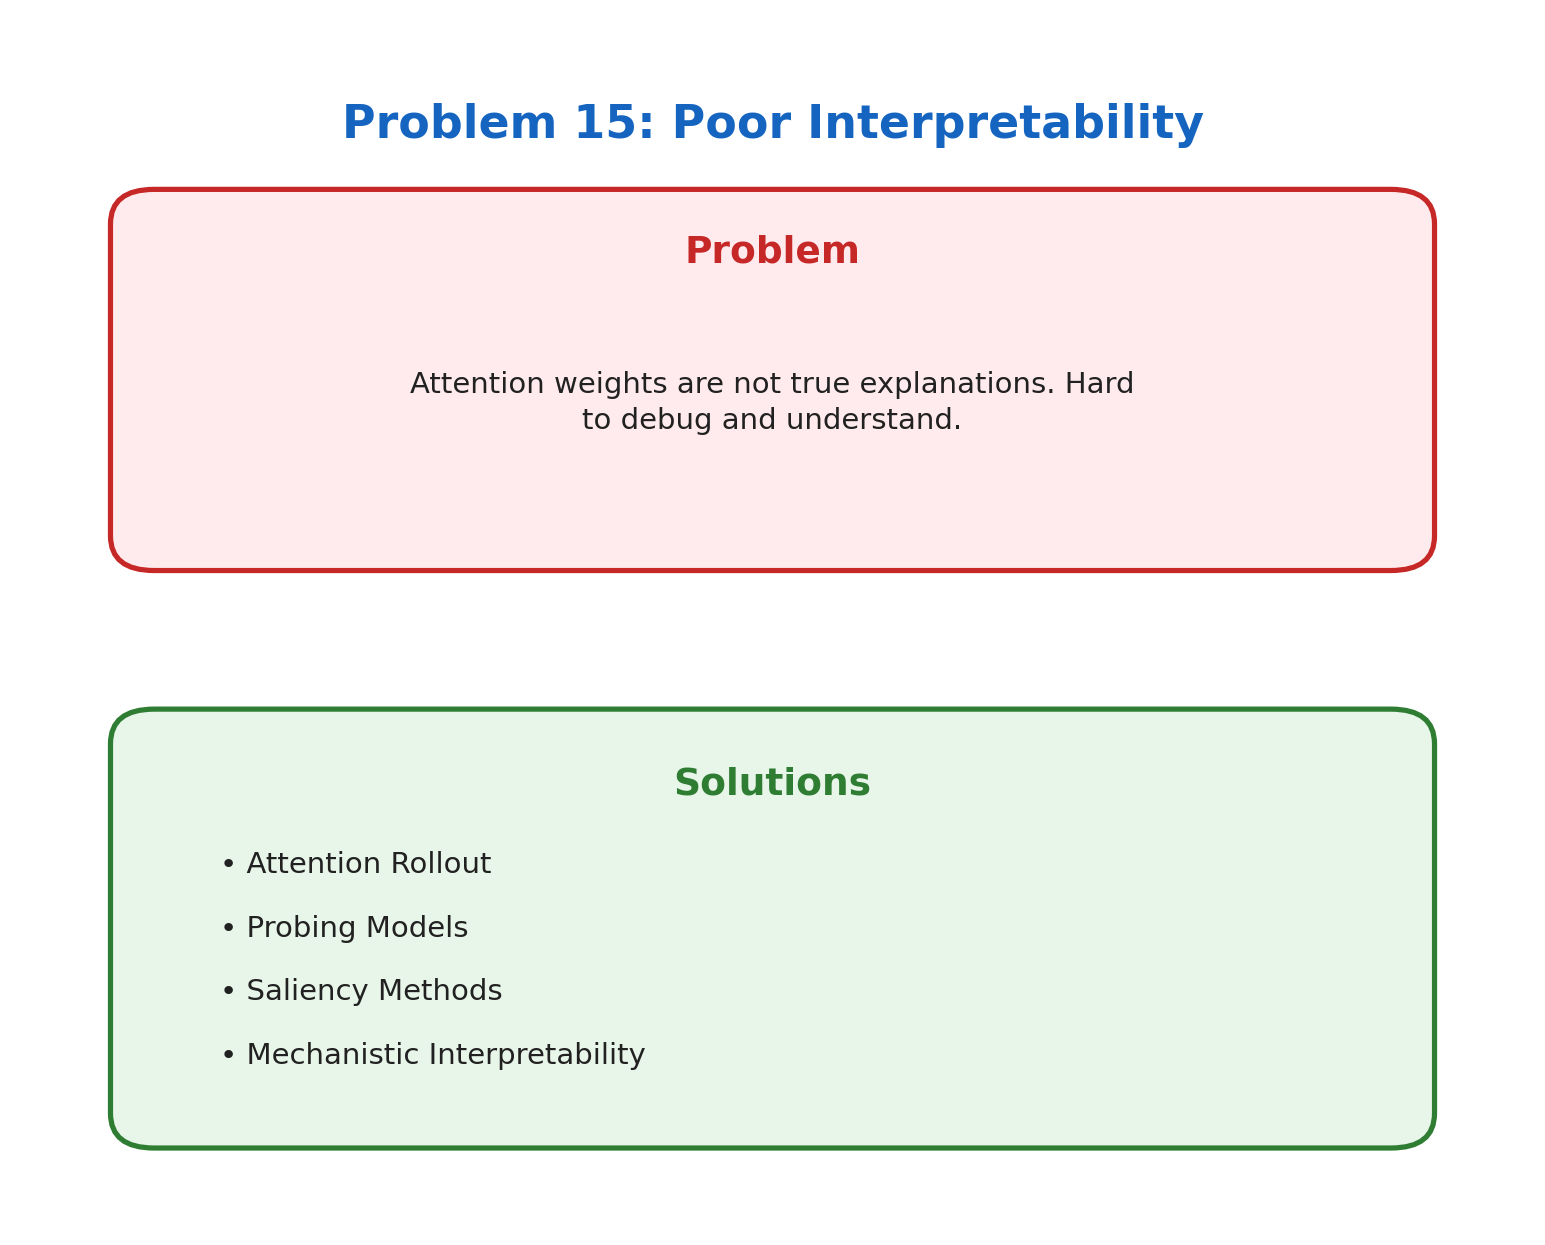
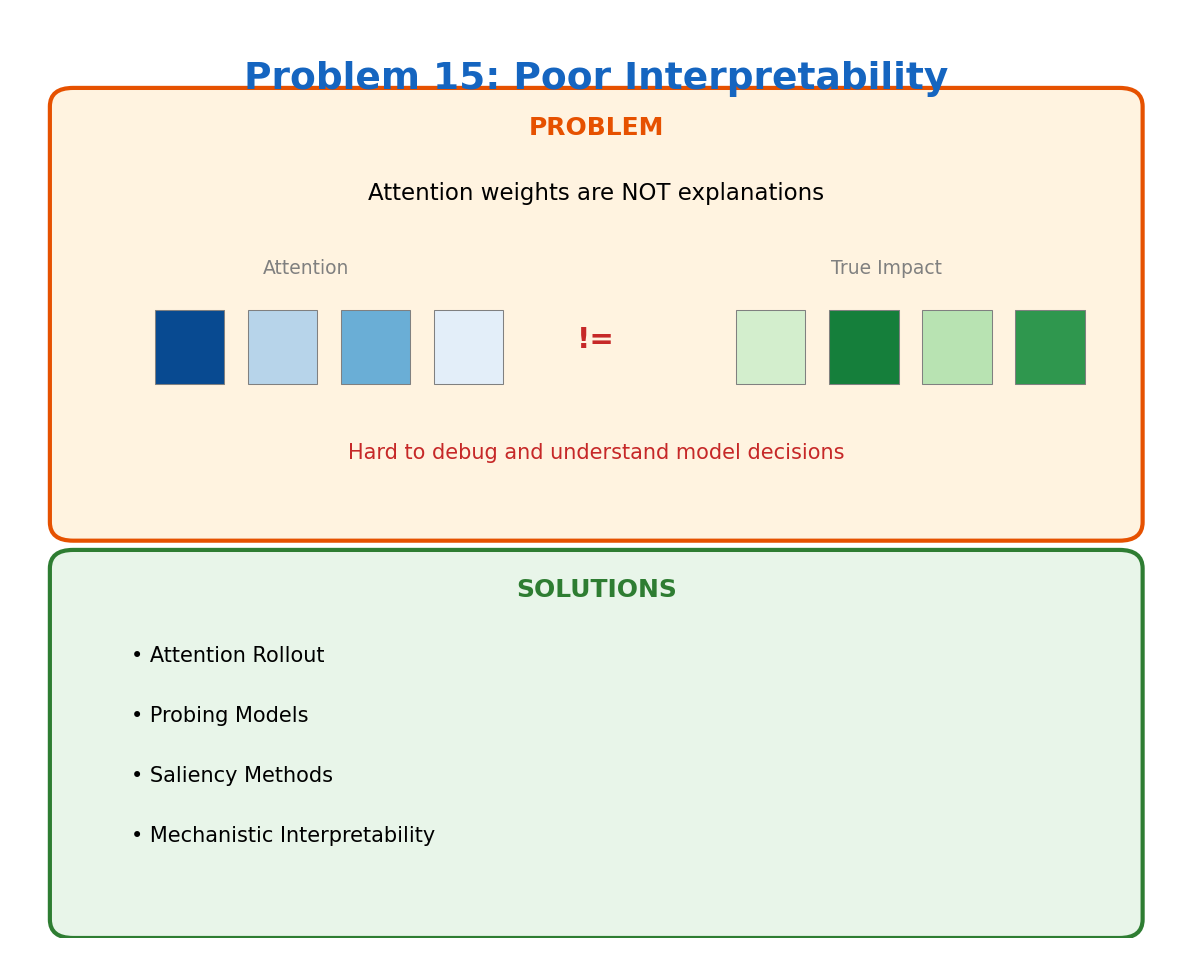
Update Problem 15: Interpretability - human-readable README

diff --git a/15_interpretability/README.md b/15_interpretability/README.md
@@ -1,23 +1,74 @@
 # Problem 15: Poor Interpretability
 
-## Problem
+[← Back to Main](../README.md) | [← Previous](../14_noise_sensitivity/README.md) | [Next →](../16_dense_inputs/README.md)
 
-Attention weights are not true explanations. Hard to debug and understand.
+---
 
-While attention weights are often visualized as "explanations," research shows they don't reliably indicate which inputs influenced the output. This makes debugging and understanding model behavior difficult.
+![Problem 15](./problem.png)
 
-## Solutions
+## What's the Problem?
 
-| Solution | Description |
-|----------|-------------|
-| **Attention Rollout** | Aggregate attention across layers for better interpretation |
-| **Probing Models** | Train classifiers on intermediate representations |
-| **Saliency Methods** | Gradient-based methods to identify important inputs |
-| **Mechanistic Interpretability** | Reverse-engineer model circuits and computations |
+Your model says "The answer is 42." Why? You look at the attention weights. They highlight "meaning" and "life." Great, but... is that actually why it gave that answer? Probably not.
 
-## References
+Transformers are black boxes. We can see what goes in and what comes out, but the reasoning in between is opaque. This matters for:
+- Debugging wrong answers
+- Building trust in high-stakes applications
+- Understanding model failures
+- Regulatory compliance
 
-- [Attention is not Explanation](https://arxiv.org/abs/1902.10186) - Attention is not Explanation
-- [BertViz](https://arxiv.org/abs/1904.02679) - A Tool for Visualizing Attention in BERT
-- [Mechanistic Interpretability](https://transformer-circuits.pub/) - Transformer Circuits Thread
+## The Attention Fallacy
 
+People love visualizing attention weights as "explanations." But research shows:
+- You can permute attention weights and get the same output
+- High attention doesn't mean high influence on output
+- Different heads learn different (often redundant) patterns
+
+Attention tells you what the model looked at, not what mattered for the decision.
+
+## Why This Is Hard
+
+Modern LLMs have:
+- Billions of parameters
+- Hundreds of layers
+- Thousands of attention heads
+- Complex non-linear interactions
+
+There's no simple "this input caused that output" story. The computation is distributed across millions of neurons.
+
+## How Do We Try to Fix It?
+
+| Method | What It Does |
+|--------|--------------|
+| **Attention Rollout** | Aggregate attention across layers for better approximation |
+| **Probing Classifiers** | Train small models to extract info from hidden states |
+| **Saliency Methods** | Use gradients to find important inputs |
+| **Mechanistic Interpretability** | Reverse-engineer specific circuits in the model |
+| **Chain-of-Thought** | Make the model show its reasoning steps |
+
+## Mechanistic Interpretability
+
+This is the hot new approach. Instead of treating the model as a black box, researchers:
+1. Find individual neurons/circuits
+2. Understand what they compute
+3. Build up understanding piece by piece
+
+Anthropic found "induction heads" that copy patterns. Others found "knowledge neurons" that store facts. Still early days, but promising.
+
+## The Practical Reality
+
+For most applications, we rely on:
+- Extensive testing
+- Prompt engineering to elicit reasoning
+- Guardrails and filters
+- Human oversight
+
+True interpretability remains an open problem.
+
+## Learn More
+
+- [Attention is not Explanation](https://arxiv.org/abs/1902.10186)
+- [Anthropic's Interpretability Work](https://transformer-circuits.pub/)
+
+---
+
+[← Back to Main](../README.md) | [← Previous](../14_noise_sensitivity/README.md) | [Next →](../16_dense_inputs/README.md)
